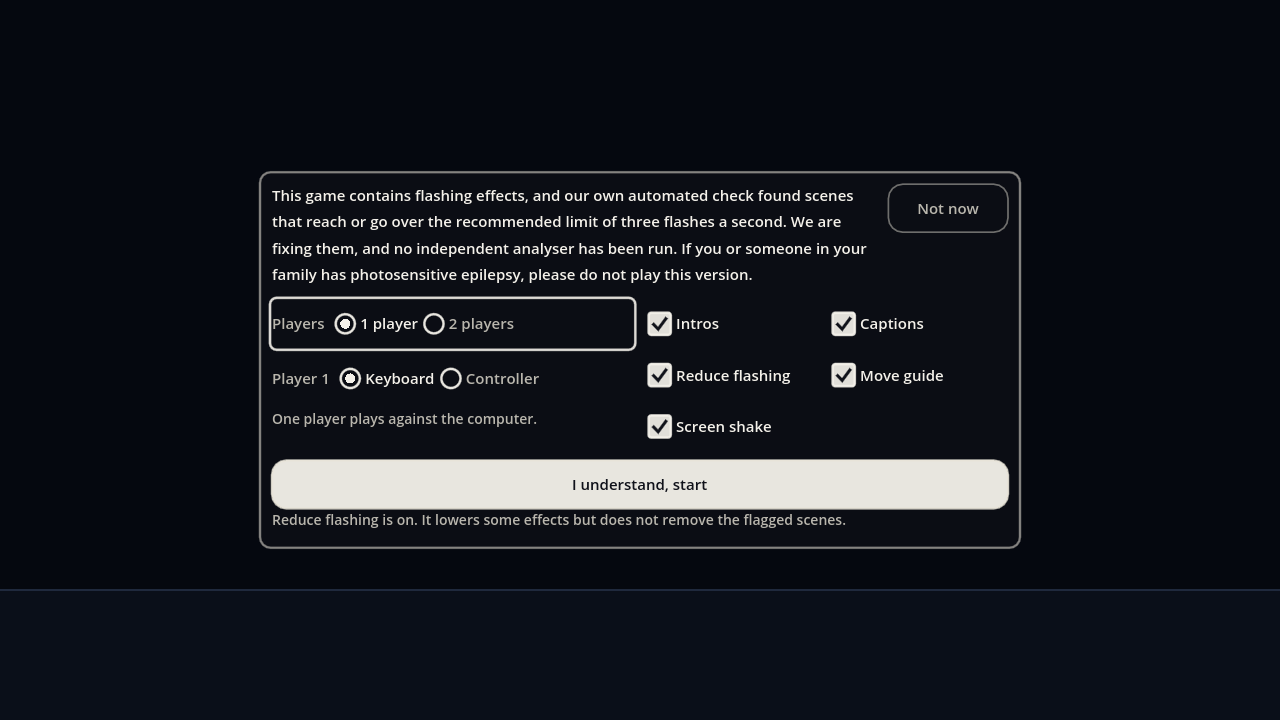
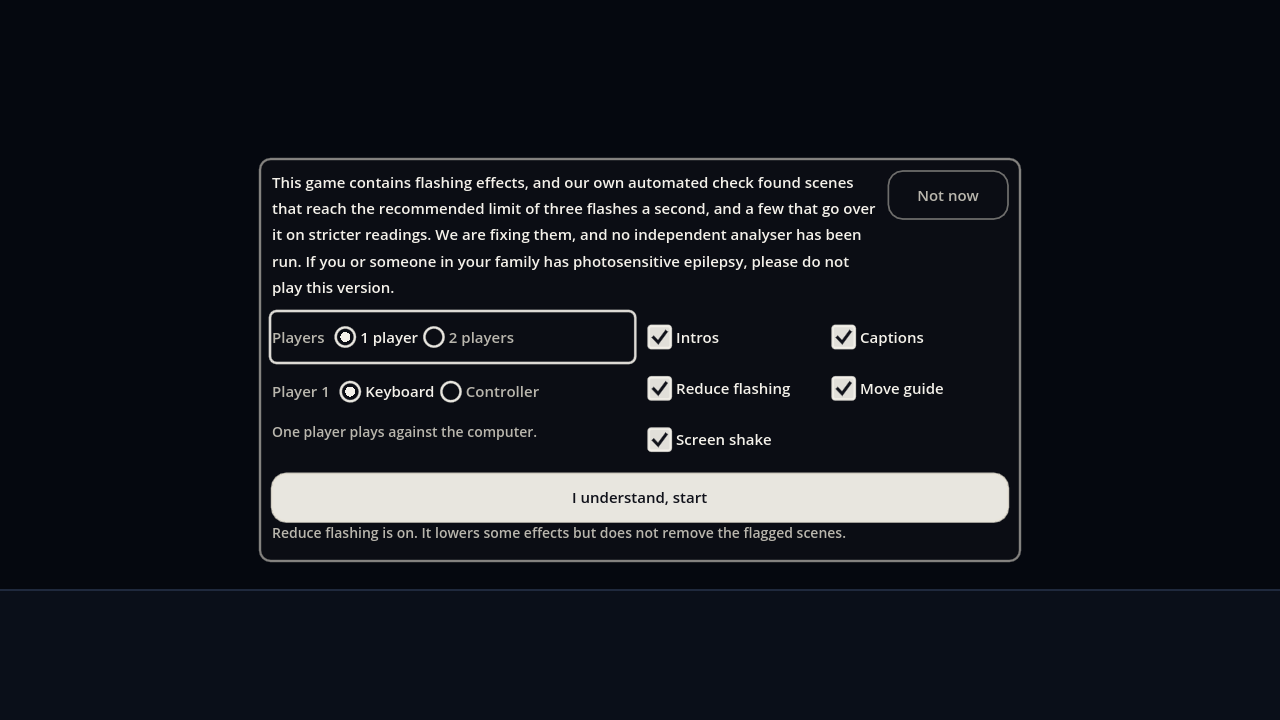
UI: Legal's RL-137 sentence in the start menu; the menu stacks on an upright phone so no label runs under its neighbour

Changed region(s): [[0.1875, 0.2139, 0.8125, 0.7944]]

diff --git a/docs/ui/start-menu.md b/docs/ui/start-menu.md
@@ -10,7 +10,7 @@ The game boots to one card over a still dark background. **No match plays behind
 
 | | |
 | :-- | :-- |
-| **Top** | **Legal's notice (RL-136), exactly, with nothing playing behind it:** "This game contains flashing effects, and our own automated check found scenes that reach or go over the recommended limit of three flashes a second. We are fixing them, and no independent analyser has been run. If you or someone in your family has photosensitive epilepsy, please do not play this version." Data: `terms.json` `prompt.menu_notice`; a test compares it word for word and checks the screen never says safe, tested or compliant. A quiet **Not now** sits at the top right (web only, first screen only): it goes back to the holding page (`prompt.menu_holding_url`; empty goes back in the browser's history). |
+| **Top** | **Legal's notice (RL-136), exactly, with nothing playing behind it:** "This game contains flashing effects, and our own automated check found scenes that reach the recommended limit of three flashes a second, and a few that go over it on stricter readings. We are fixing them, and no independent analyser has been run. If you or someone in your family has photosensitive epilepsy, please do not play this version." Data: `terms.json` `prompt.menu_notice`; a test compares it word for word and checks the screen never says safe, tested or compliant. A quiet **Not now** sits at the top right (web only, first screen only): it goes back to the holding page (`prompt.menu_holding_url`; empty goes back in the browser's history). |
 | **Radio buttons** | **Players:** 1 player (it plays against the computer) / 2 players. **Player 1:** Keyboard / Controller. **Player 2** (only with 2 players): Keyboard / Controller. Both on the keyboard says they share it and the guide shows each player's keys (Controls' shared layouts). A Controller chosen with none connected says "No controller found yet. Press a button on it." |
 | **Checkboxes** | **Intros** (on), **Reduce flashing** (ON by default), **Screen shake**, **Captions**, **Move guide** (the control legend). Only settings that already work: each is an existing option (`camera_shake`, `captions`, `control_hints`, `reduce_flashing`, and the intro through the match setup). |
 | **Start** | One button, **"I understand, start"**, with Legal's small line under it ("Reduce flashing is on. It lowers some effects but does not remove the flagged scenes."; "Reduce flashing is off." when it is unticked). It applies the boxes (they are saved like the Settings screen's), files the choices in the prefs (`UiPrefs` key `menu`), tells the host (`menu_started`), and goes. |
@@ -33,3 +33,9 @@ Mid-match (from the pause menu) the notice is not repeated: Back takes its corne
 3. The first-run How to play card still opens over the new match after Start (as before): keep it, or skip it when the visitor came through the menu (one condition).
 4. The computer's level (easy, medium, hard) is not built: the sim has no level setting yet (the AI's rates are Encounter's data).
 5. Below about 600 CSS px wide (an iPhone SE in landscape with Safari's bars) the card cannot show every row at once; Start stays on screen.
+
+## 2026-10-15: RL-137 sentence and the upright phone
+
+- The notice's first sentence is Legal's RL-137 wording (data `prompt.menu_notice`; sentences 2 and 3, the button and the small line unchanged).
+- At 390 px wide upright the radios ran under the boxes. The card now **stacks** when a radio row's two options cannot sit side by side in half the card: radios take the full width, the boxes go under them in two columns. When the long notice makes a short landscape screen too tall at the floor font, padding and gaps are halved before the layout gives up. `hud_check` now also tests that every label's text sits inside its own control at 19 sizes, five of them upright (390x844, 414x896, 768x1024, 1170x2532, 1080x2340).
+- Stills: `img/start-menu-phone-portrait-web.png` (390x844), `img/start-menu-phone-web.png` (844x390), `img/start-menu-desktop-web.png` (1280x720).

diff --git a/docs/ui/strings.md b/docs/ui/strings.md
@@ -22,7 +22,7 @@ Mark column: **keep**, **rewrite** (Narrative drafts), or **cut**. A flag in the
 
 | # | Text | Key | Mark |
 | ---: | :-- | :-- | :-- |
-| 10 | This game contains flashing effects, and our own automated check found scenes that reach or go over the recommended limit of three flashes a second. We are fixing them, and no independent analyser has been run. If you or someone in your family has photosensitive epilepsy, please do not play this version. | `terms:prompt.menu_notice` | |
+| 10 | This game contains flashing effects, and our own automated check found scenes that reach the recommended limit of three flashes a second, and a few that go over it on stricter readings. We are fixing them, and no independent analyser has been run. If you or someone in your family has photosensitive epilepsy, please do not play this version. | `terms:prompt.menu_notice` | |
 | 11 | Reduce flashing is on. It lowers some effects but does not remove the flagged scenes. | `terms:prompt.menu_rf_on` | |
 | 12 | Reduce flashing is off. | `terms:prompt.menu_rf_off` | |
 | 13 | Not now | `terms:prompt.menu_not_now` | |
